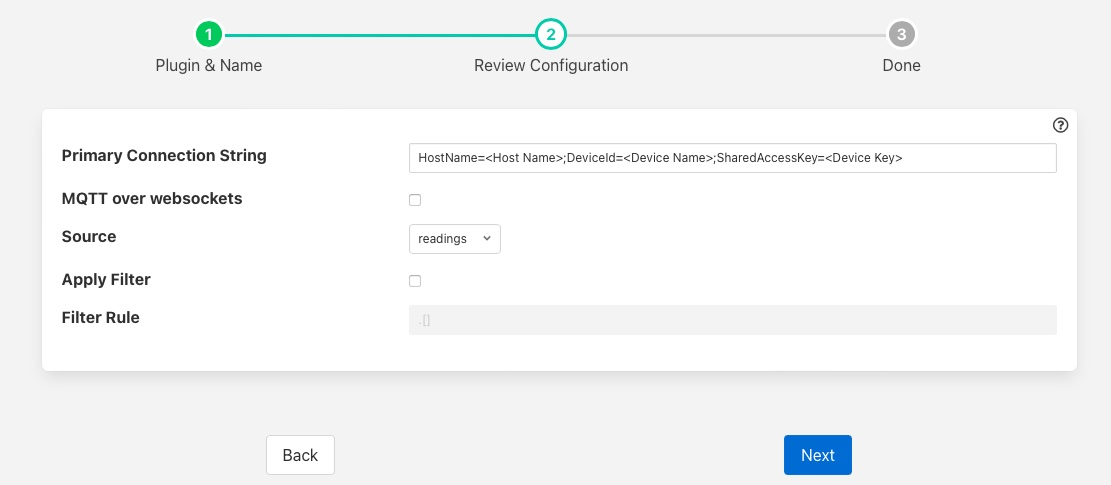
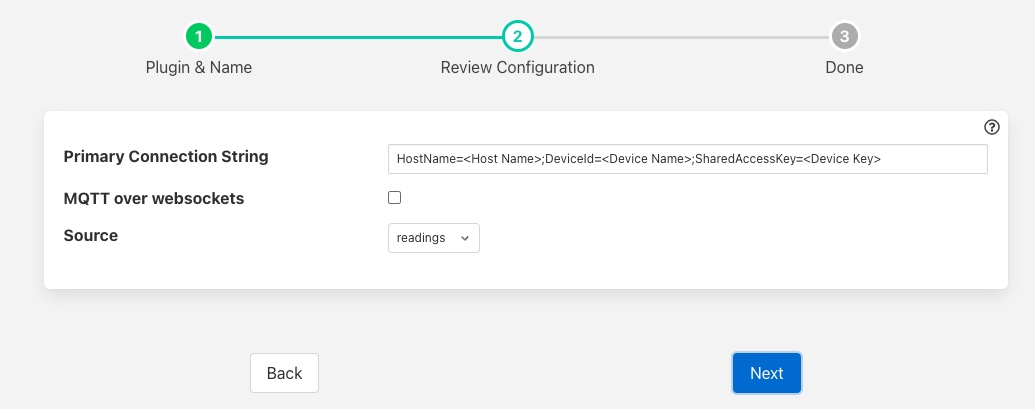
FOGL-7276 Remove filter and apply filter config options

diff --git a/python/fledge/plugins/north/azure/azure.py b/python/fledge/plugins/north/azure/azure.py
@@ -52,21 +52,6 @@ _DEFAULT_CONFIG = {
          "options": [ "readings", "statistics" ],
          'order': '3',
          'displayName': 'Source'
-    },
-    "applyFilter": {
-        "description": "Should filter be applied before processing data",
-        "type": "boolean",
-        "default": "false",
-        'order': '4',
-        'displayName': 'Apply Filter'
-    },
-    "filterRule": {
-        "description": "JQ formatted filter to apply (only applicable if applyFilter is True)",
-        "type": "string",
-        "default": ".[]",
-        'order': '5',
-        'displayName': 'Filter Rule',
-        "validity": "applyFilter == \"true\""
     }
 }
 

diff --git a/docs/index.rst b/docs/index.rst
@@ -24,11 +24,6 @@ The configuration of the *Azure* plugin requires a few simple configuration para
 
   - **Data Source**: Which Fledge data to send to Azure; Readings or Fledge Statistics.
 
-  - **Apply Filter**: This allows a simple jq format filter rule to be applied to the connection. This should not be confused with Fledge filters and exists for backward compatibility reason only.
-
-  - **Filter Rule**: A jq filter rule to apply. Since the introduction of Fledge filters in the north task this has become deprecated and should not be used.
-
-
 JSON Payload
 ------------
 
